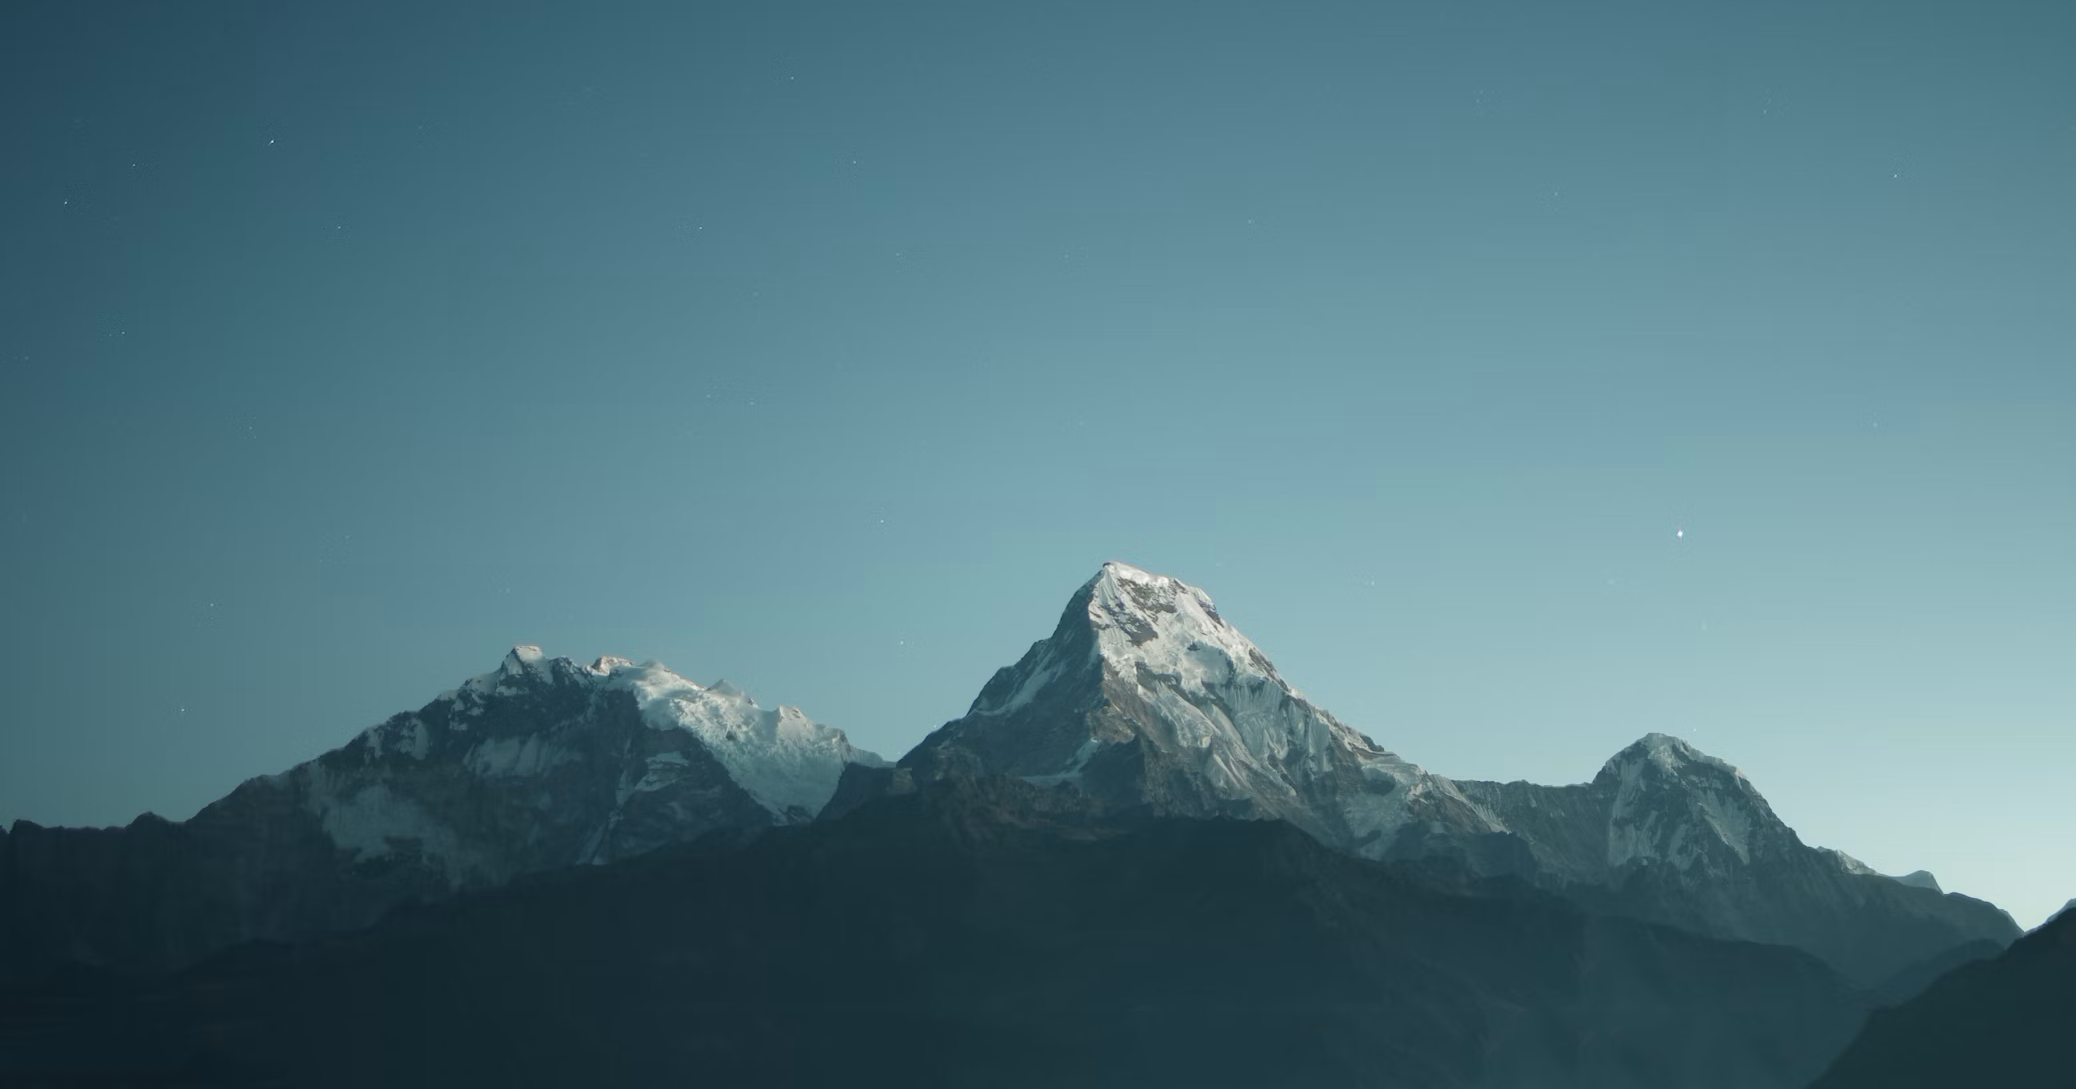
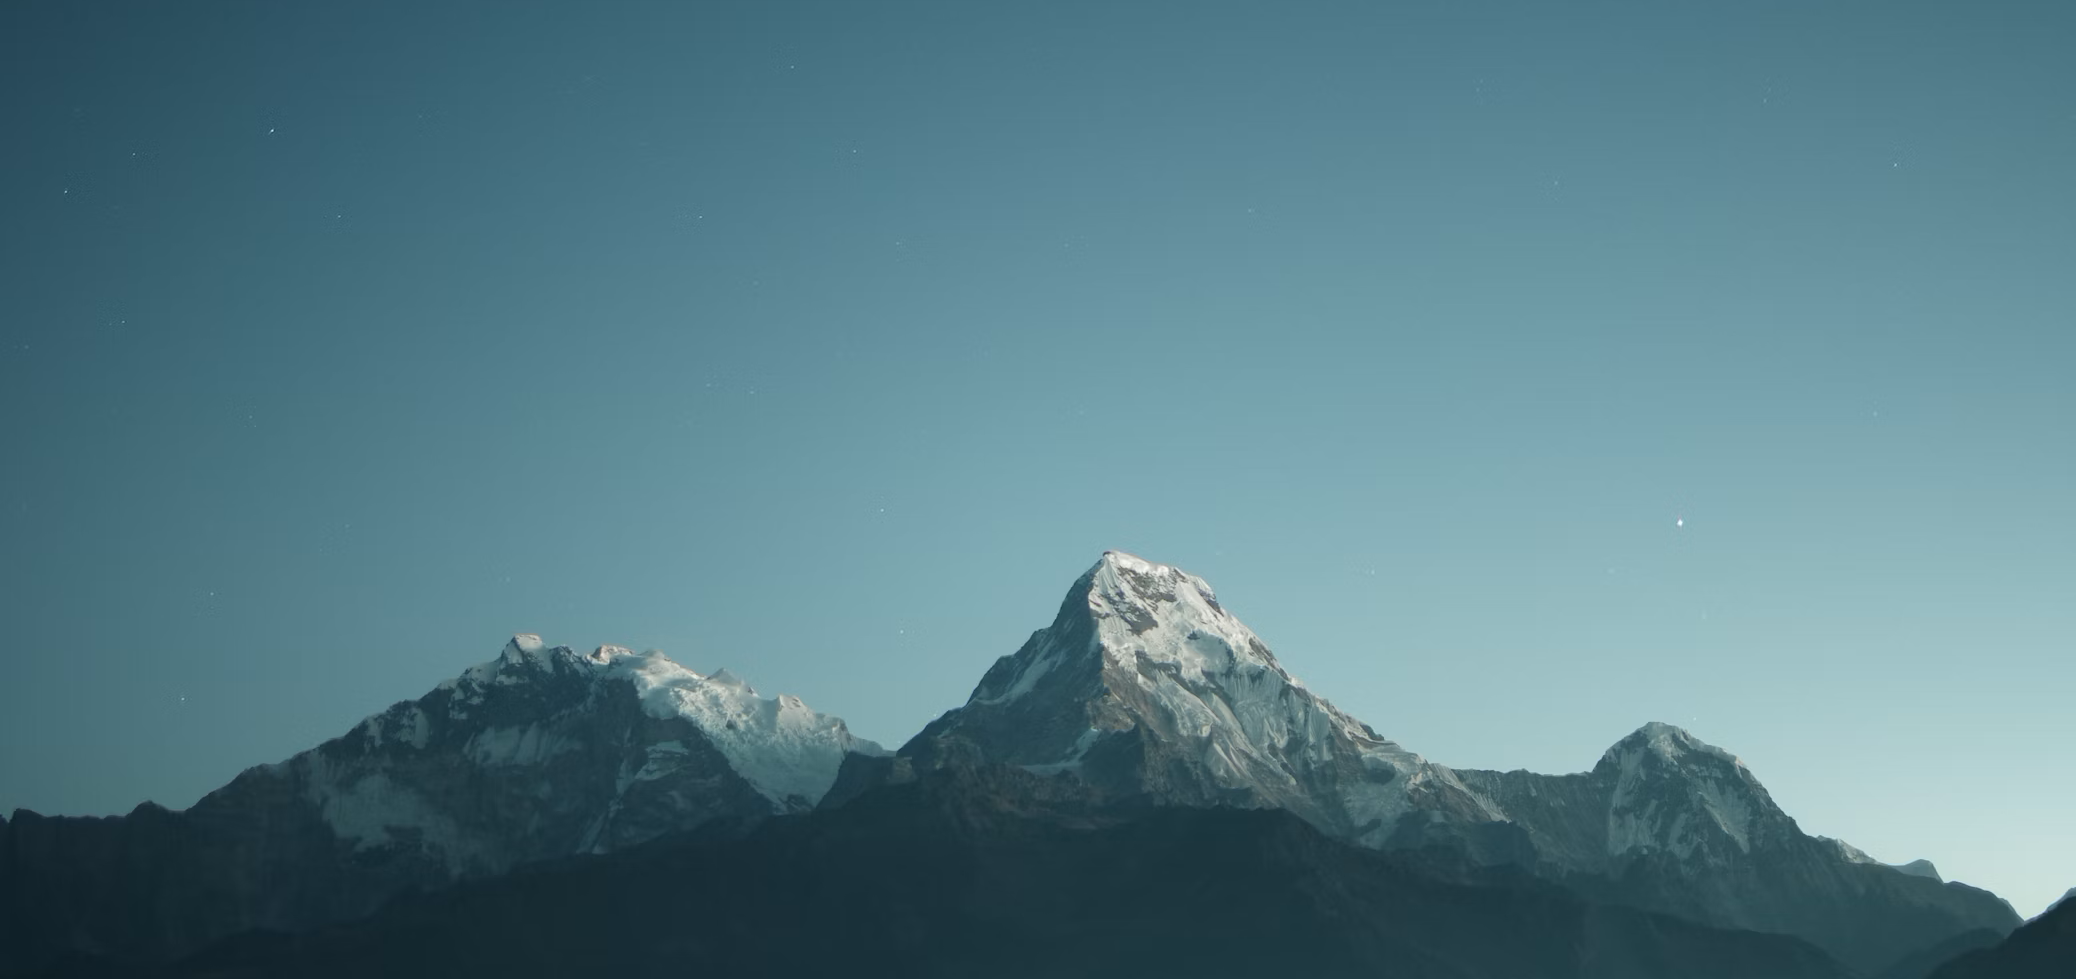
actualizacion rediseño con colores e image header

Changed region(s): [[0.0, 0.5209, 1.0, 0.9499]]

diff --git a/index.html b/index.html
@@ -41,7 +41,7 @@
   </div>
  <!-- Header -->
 <header class="w3-display-container w3-content w3-wide header" style="max-width:1600px;" id="home">
-  <img class="w3-image" src="fotos/mountainswide.png" width="1600" height="800">
+  <img class="w3-image" src="fotos/mountainsfinal.png" width="1600" height="800">
   <div class="w3-display-middle w3-center">
     <h1 class="w3-text-white"><span class="w3-padding w3-black w3-opacity-min text2"><b><i style="font-size: 100%;">I</i></b></span><span class="w3-hide-small w3-text-light-grey text1" style="font-size: 90%;">Fernández</span></h1>
   </div>
